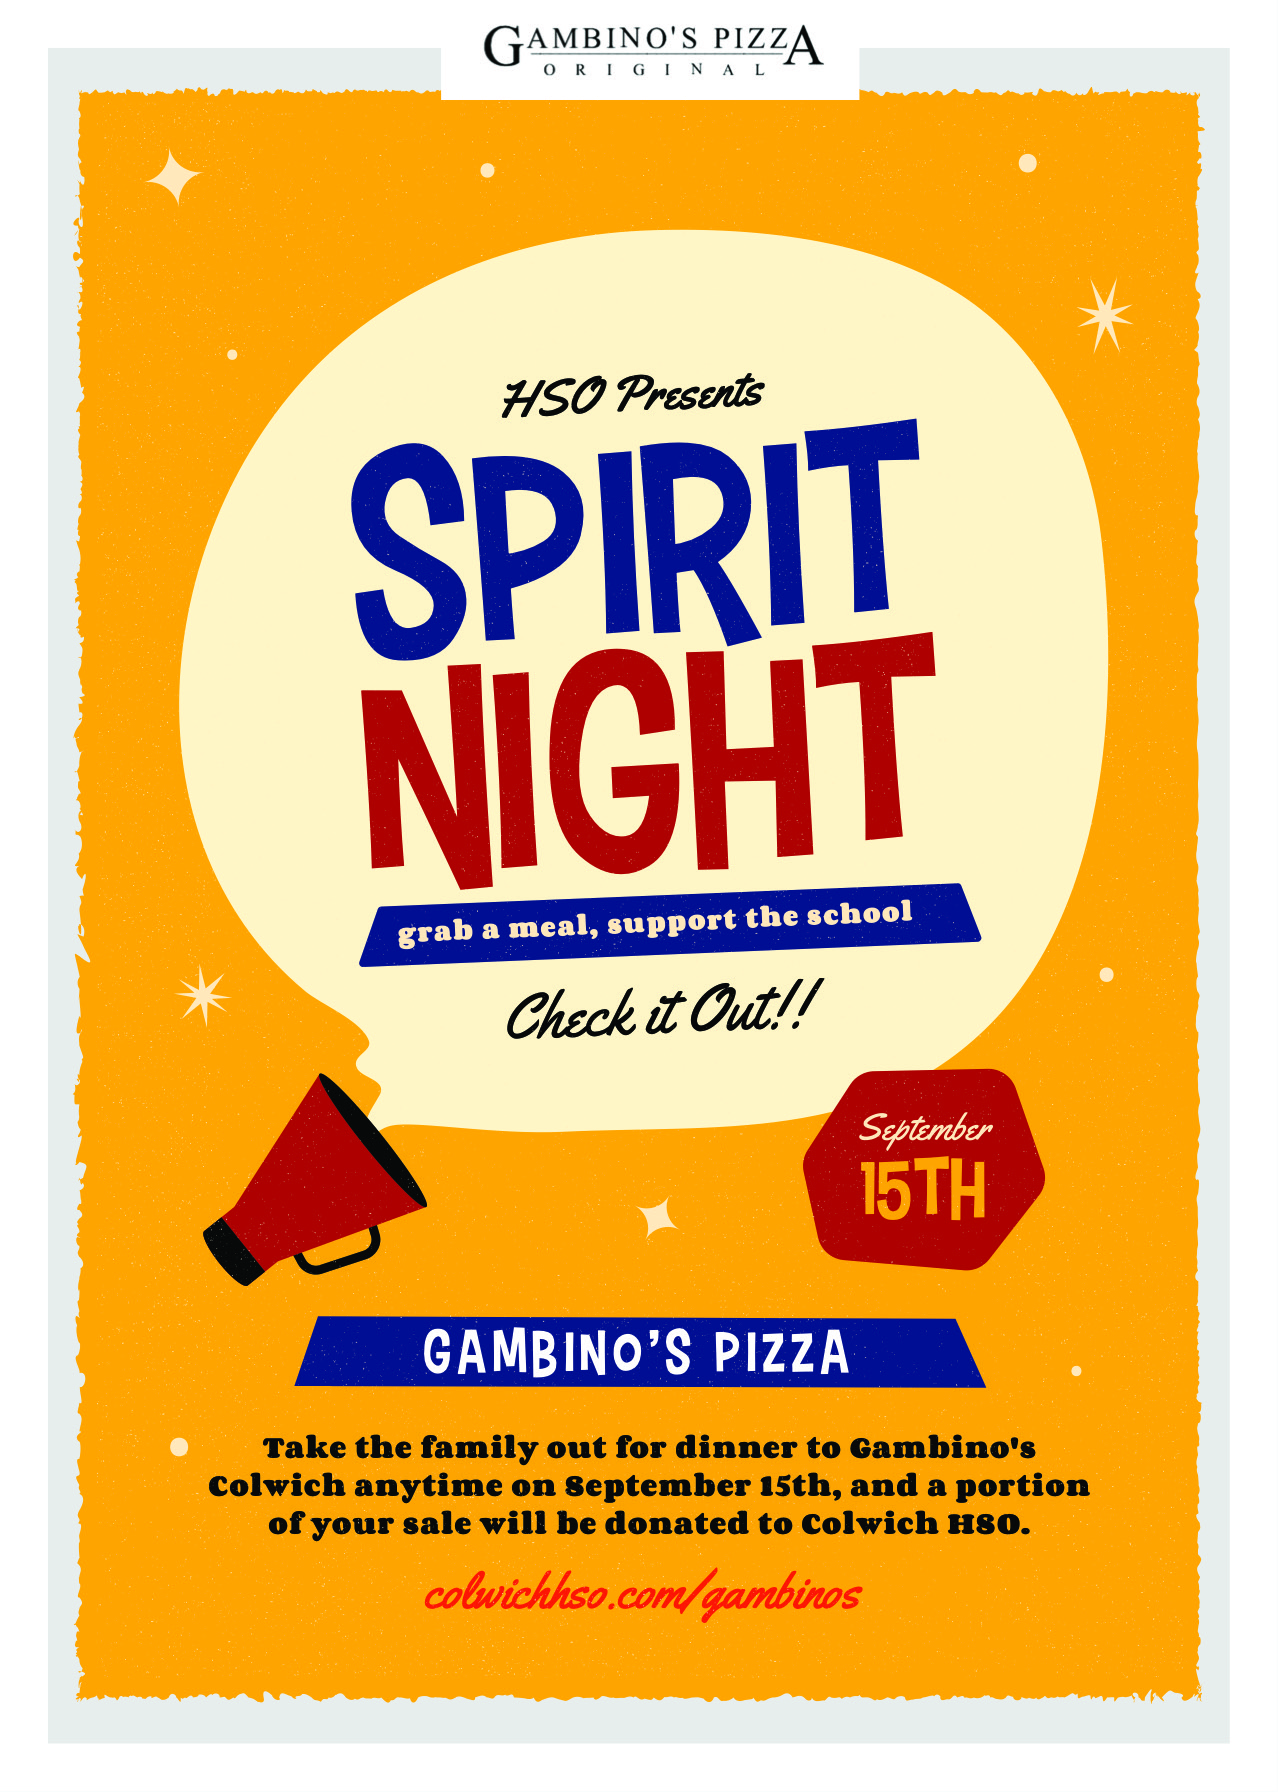
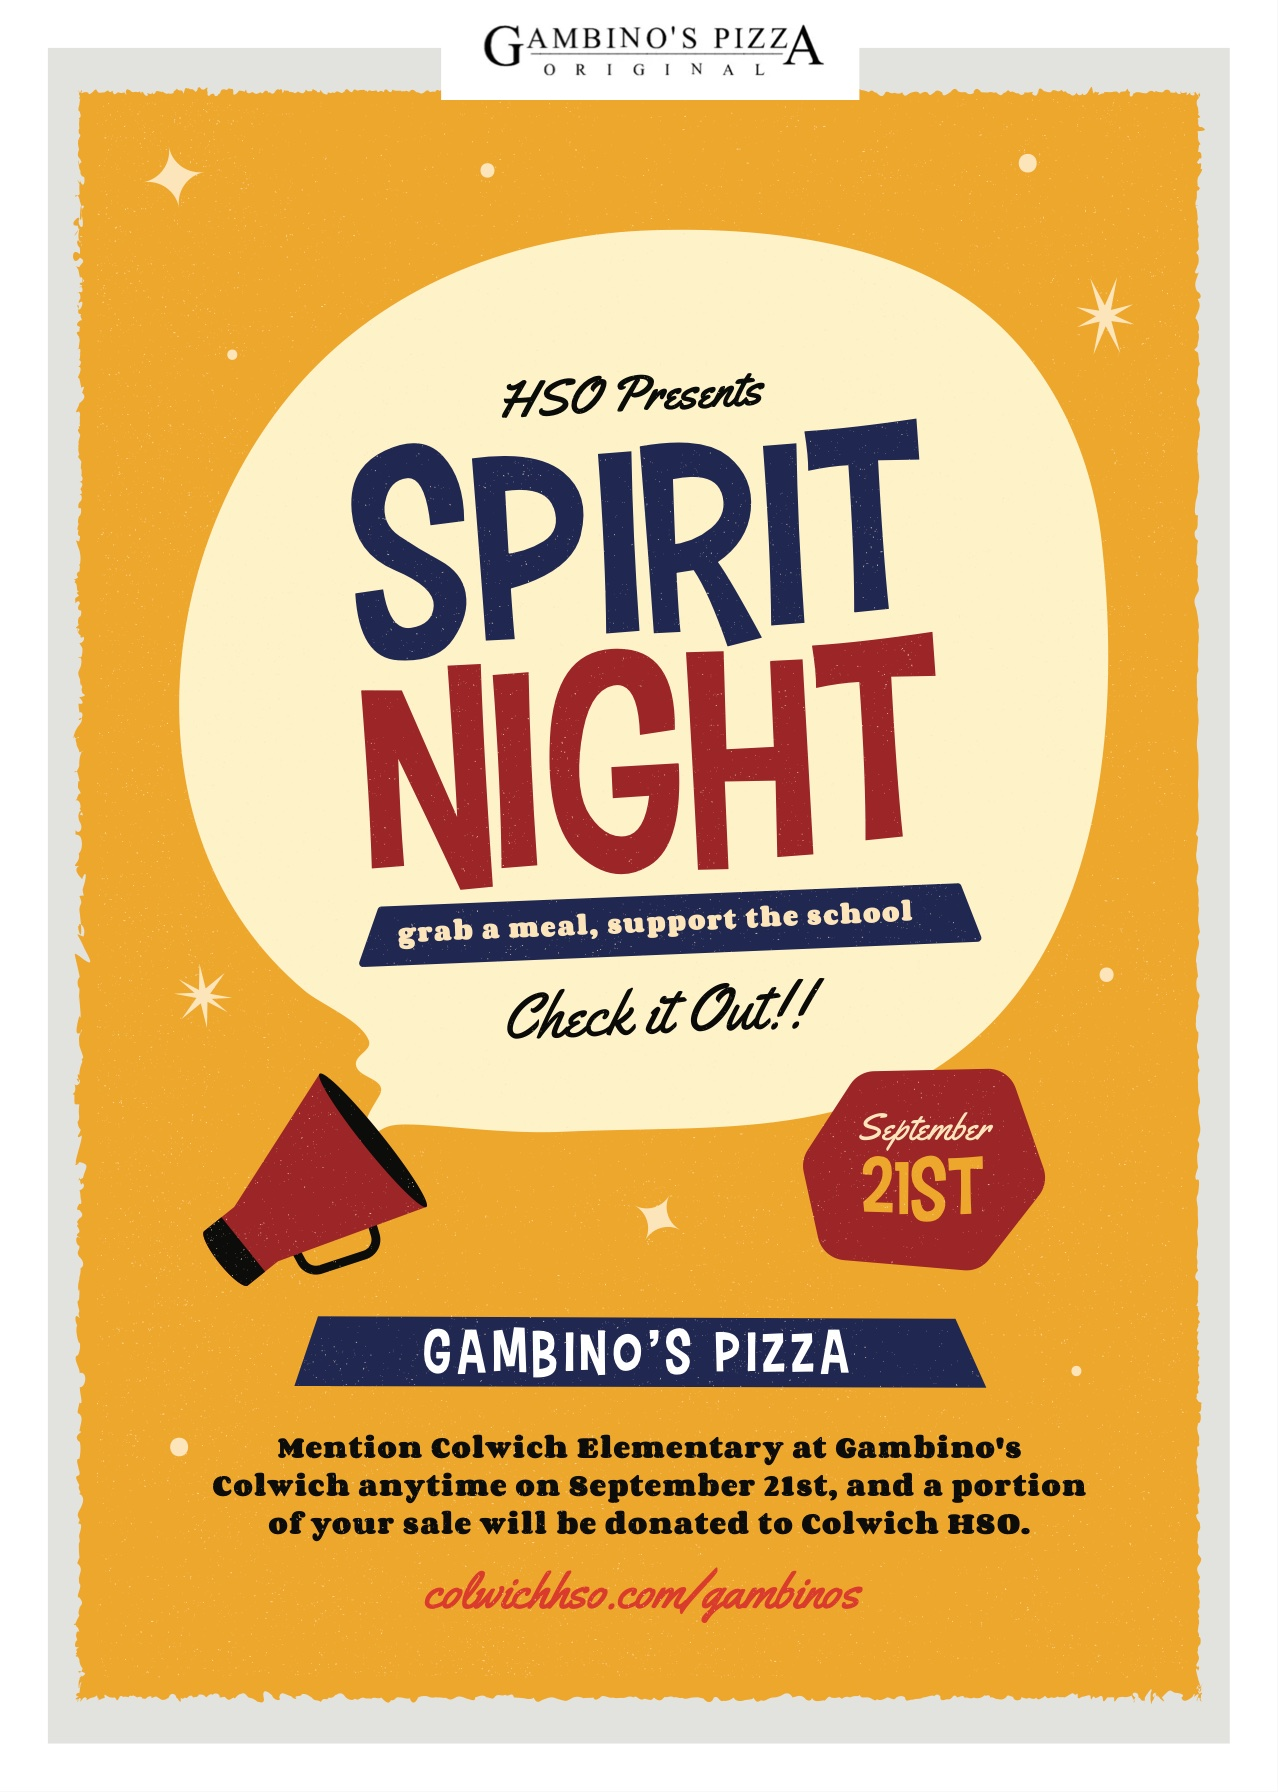
saving

diff --git a/themes/ColwichTheme/layouts/partials/hero.html b/themes/ColwichTheme/layouts/partials/hero.html
@@ -12,7 +12,7 @@
 
 		{{ else if .Params.event_date }}
 
-			<p><b>{{ dateFormat "January 2 at 3:00PM" .Params.event_date }}</b></p>
+			<p><b>{{ dateFormat "January 2" .Params.event_date }}</b></p>
 			<h1>{{ .Params.title }}</h1>
 			<p class="summary"><mark>{{ .Content | plainify | safeHTML }}</mark></p>
 

diff --git a/content/events/spiritnight.md b/content/events/spiritnight.md
@@ -2,7 +2,7 @@
 title: Gambino's Spirit Night 🎉
 description: Head on over to Gambino's where a portion of your meal will go back to Colwich HSO.
 type: events
-event_date: 2022-09-15 1:00:00 +0000
+event_date: 2022-09-21 1:00:00 +0000
 url: "/gambinos"
 fullUrl: "https://colwichhso.com/gambinos"
 pageImage: "https://colwichhso.com/og_img.png"
@@ -25,4 +25,4 @@ polaroid:
 - /images/flyers/SpiritNightGambinosWeb.jpg
 - /images/flyers/SpiritNightGambinosWeb.jpg
 ---
-Show your school spirit and grab a meal at Gambino's Original in Colwich anytime on Septmber 15th. A portion of sales are donated back to Colwich HSO.
+Mention Colwich Elementary when you grab a meal at Gambino's Original in Colwich anytime on Septmber 21st. A portion of sales are donated back to HSO!

diff --git a/content/faq/spiritnight/q2.md b/content/faq/spiritnight/q2.md
@@ -1,0 +1,6 @@
+---
+question: When are Spirit Nights?
+type: faq
+faq_category: spiritnight
+---
+There will be two spirit nights in the fall and two in the spring.  The first one is on Sept. 21st at Gambino’s Original Pizza. The other 3 spirit nights will be determined at a later date. Please be on the [lookout for that information](/calendar).

diff --git a/content/faq/spiritnight/q1.md b/content/faq/spiritnight/q1.md
@@ -1,0 +1,6 @@
+---
+question: What is Spirit Night? 
+type: faq
+faq_category: spiritnight
+---
+It is when we partner with a restaurant/car wash/skating rink on a particular day and that place donates back a set percentage of sales to Colwich HSO by just purchasing something there and **mentioning our school**.  We have 4 this year! 

diff --git a/content/faq/spiritnight/q3.md b/content/faq/spiritnight/q3.md
@@ -1,0 +1,6 @@
+---
+question: How much is donated and where does the money go? 
+type: faq
+faq_category: spiritnight
+---
+The donated money goes to the HSO. The amount donated depends on the partnering business. Some give 10% of the sales while others give more or less. 

diff --git a/content/faq/spiritnight/q5.md b/content/faq/spiritnight/q5.md
@@ -1,0 +1,6 @@
+---
+question: What do you have to purchase?
+type: faq
+faq_category: spiritnight
+---
+This depends on the partnering business. Details will be given for each spirit night. Check the website or be on the lookout for upcoming announcements.  

diff --git a/content/faq/spiritnight/q4.md b/content/faq/spiritnight/q4.md
@@ -1,0 +1,6 @@
+---
+question: Who can attend?
+type: faq
+faq_category: spiritnight
+---
+Anyone! Please pass the information to your friends, family and relatives.  More the merrier!
